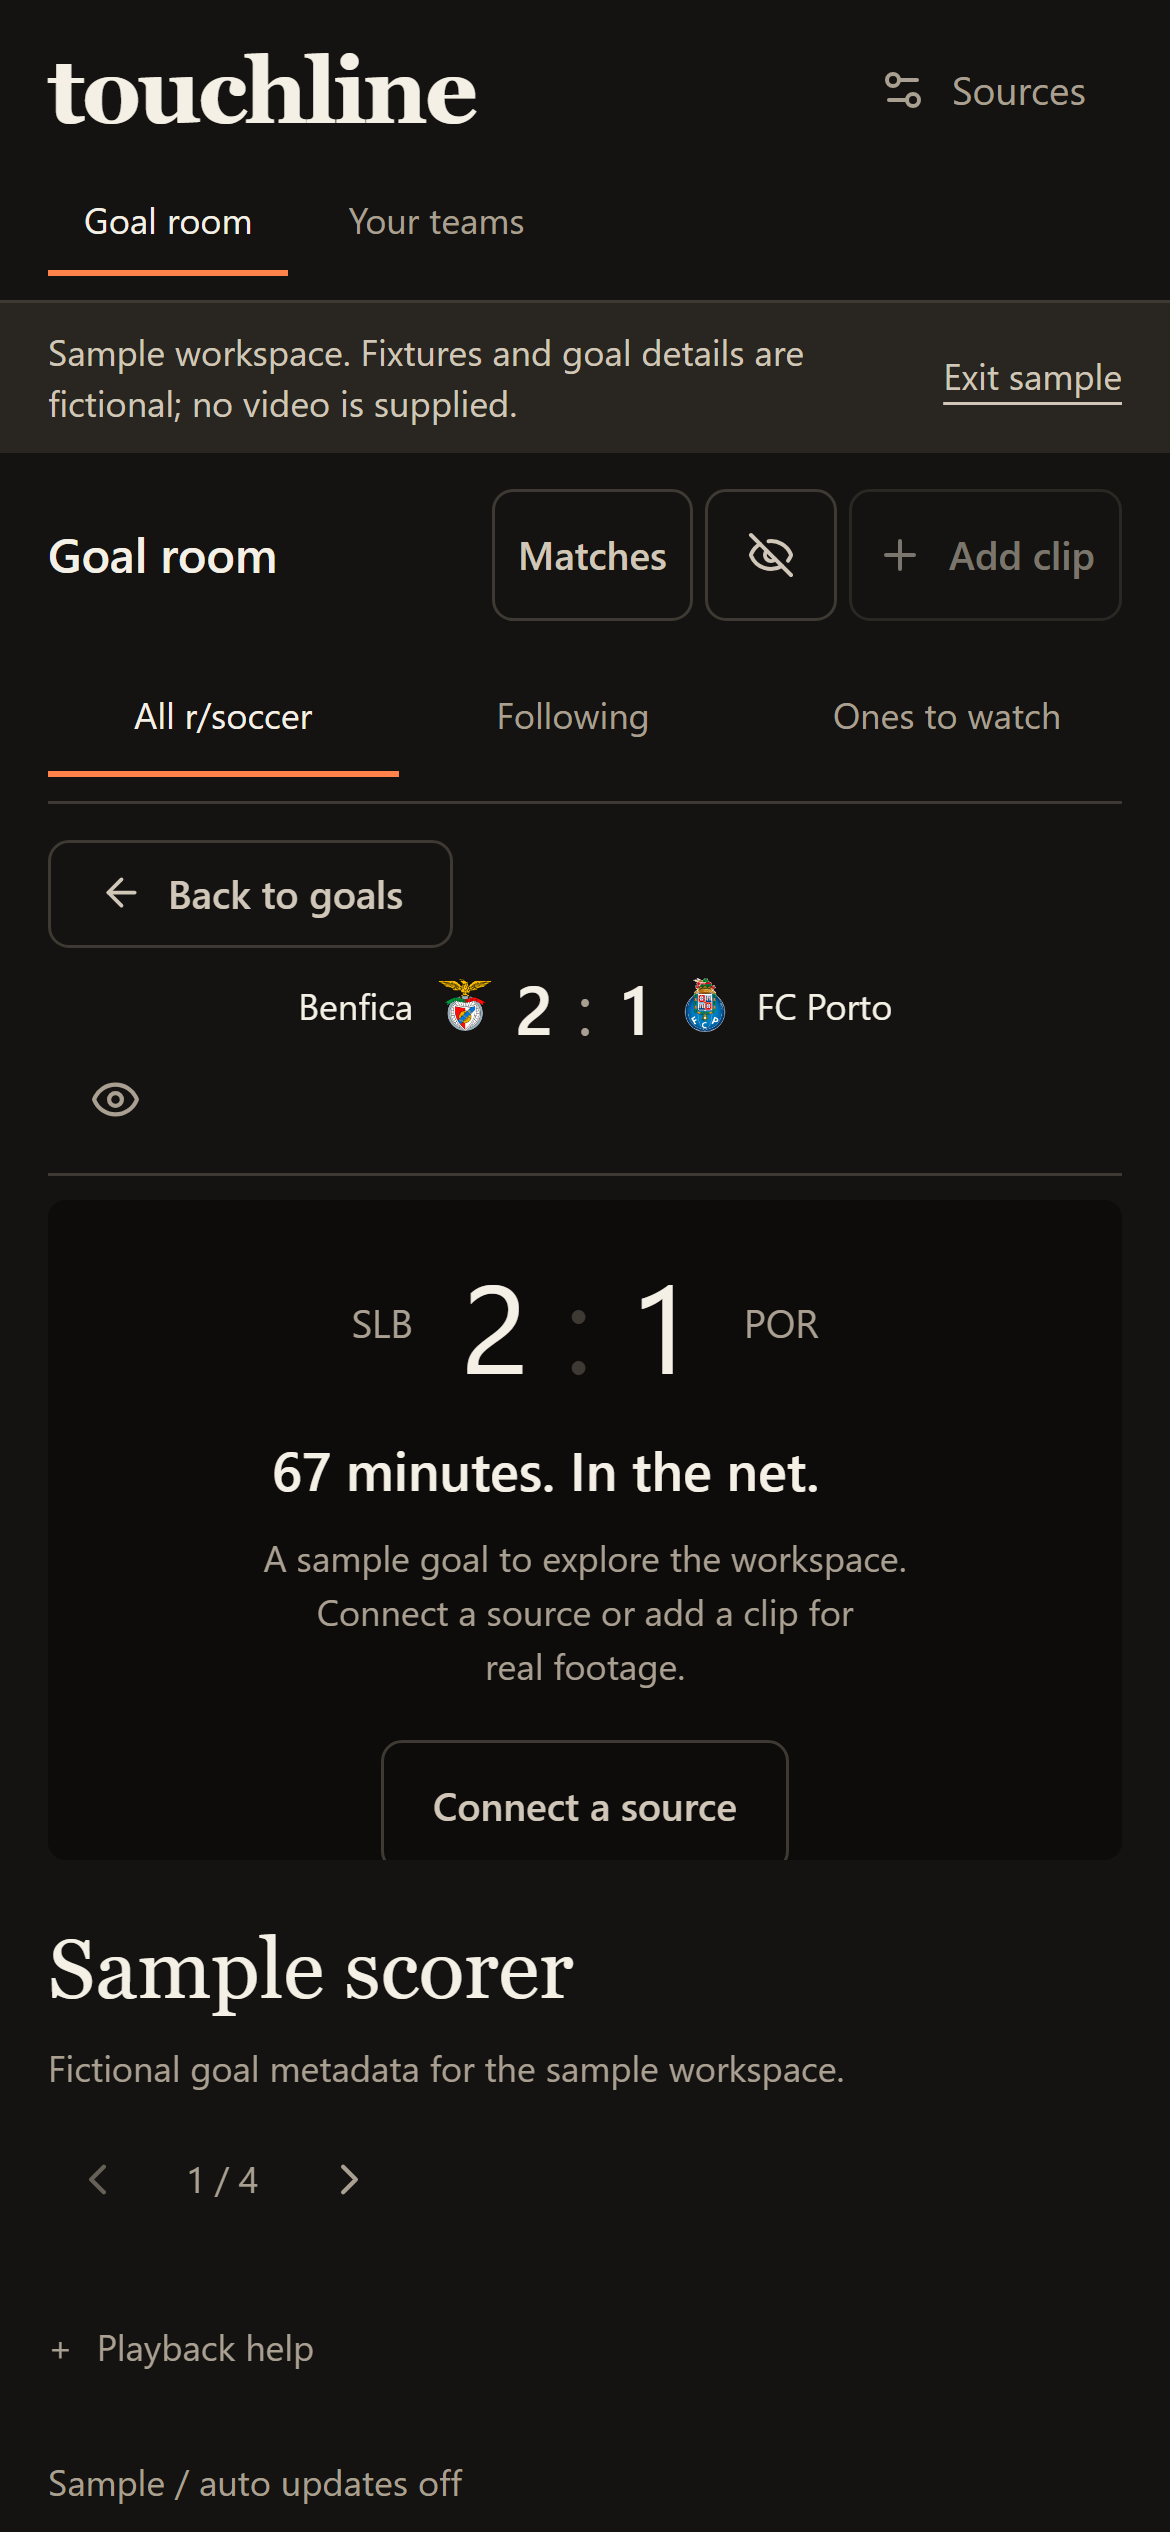
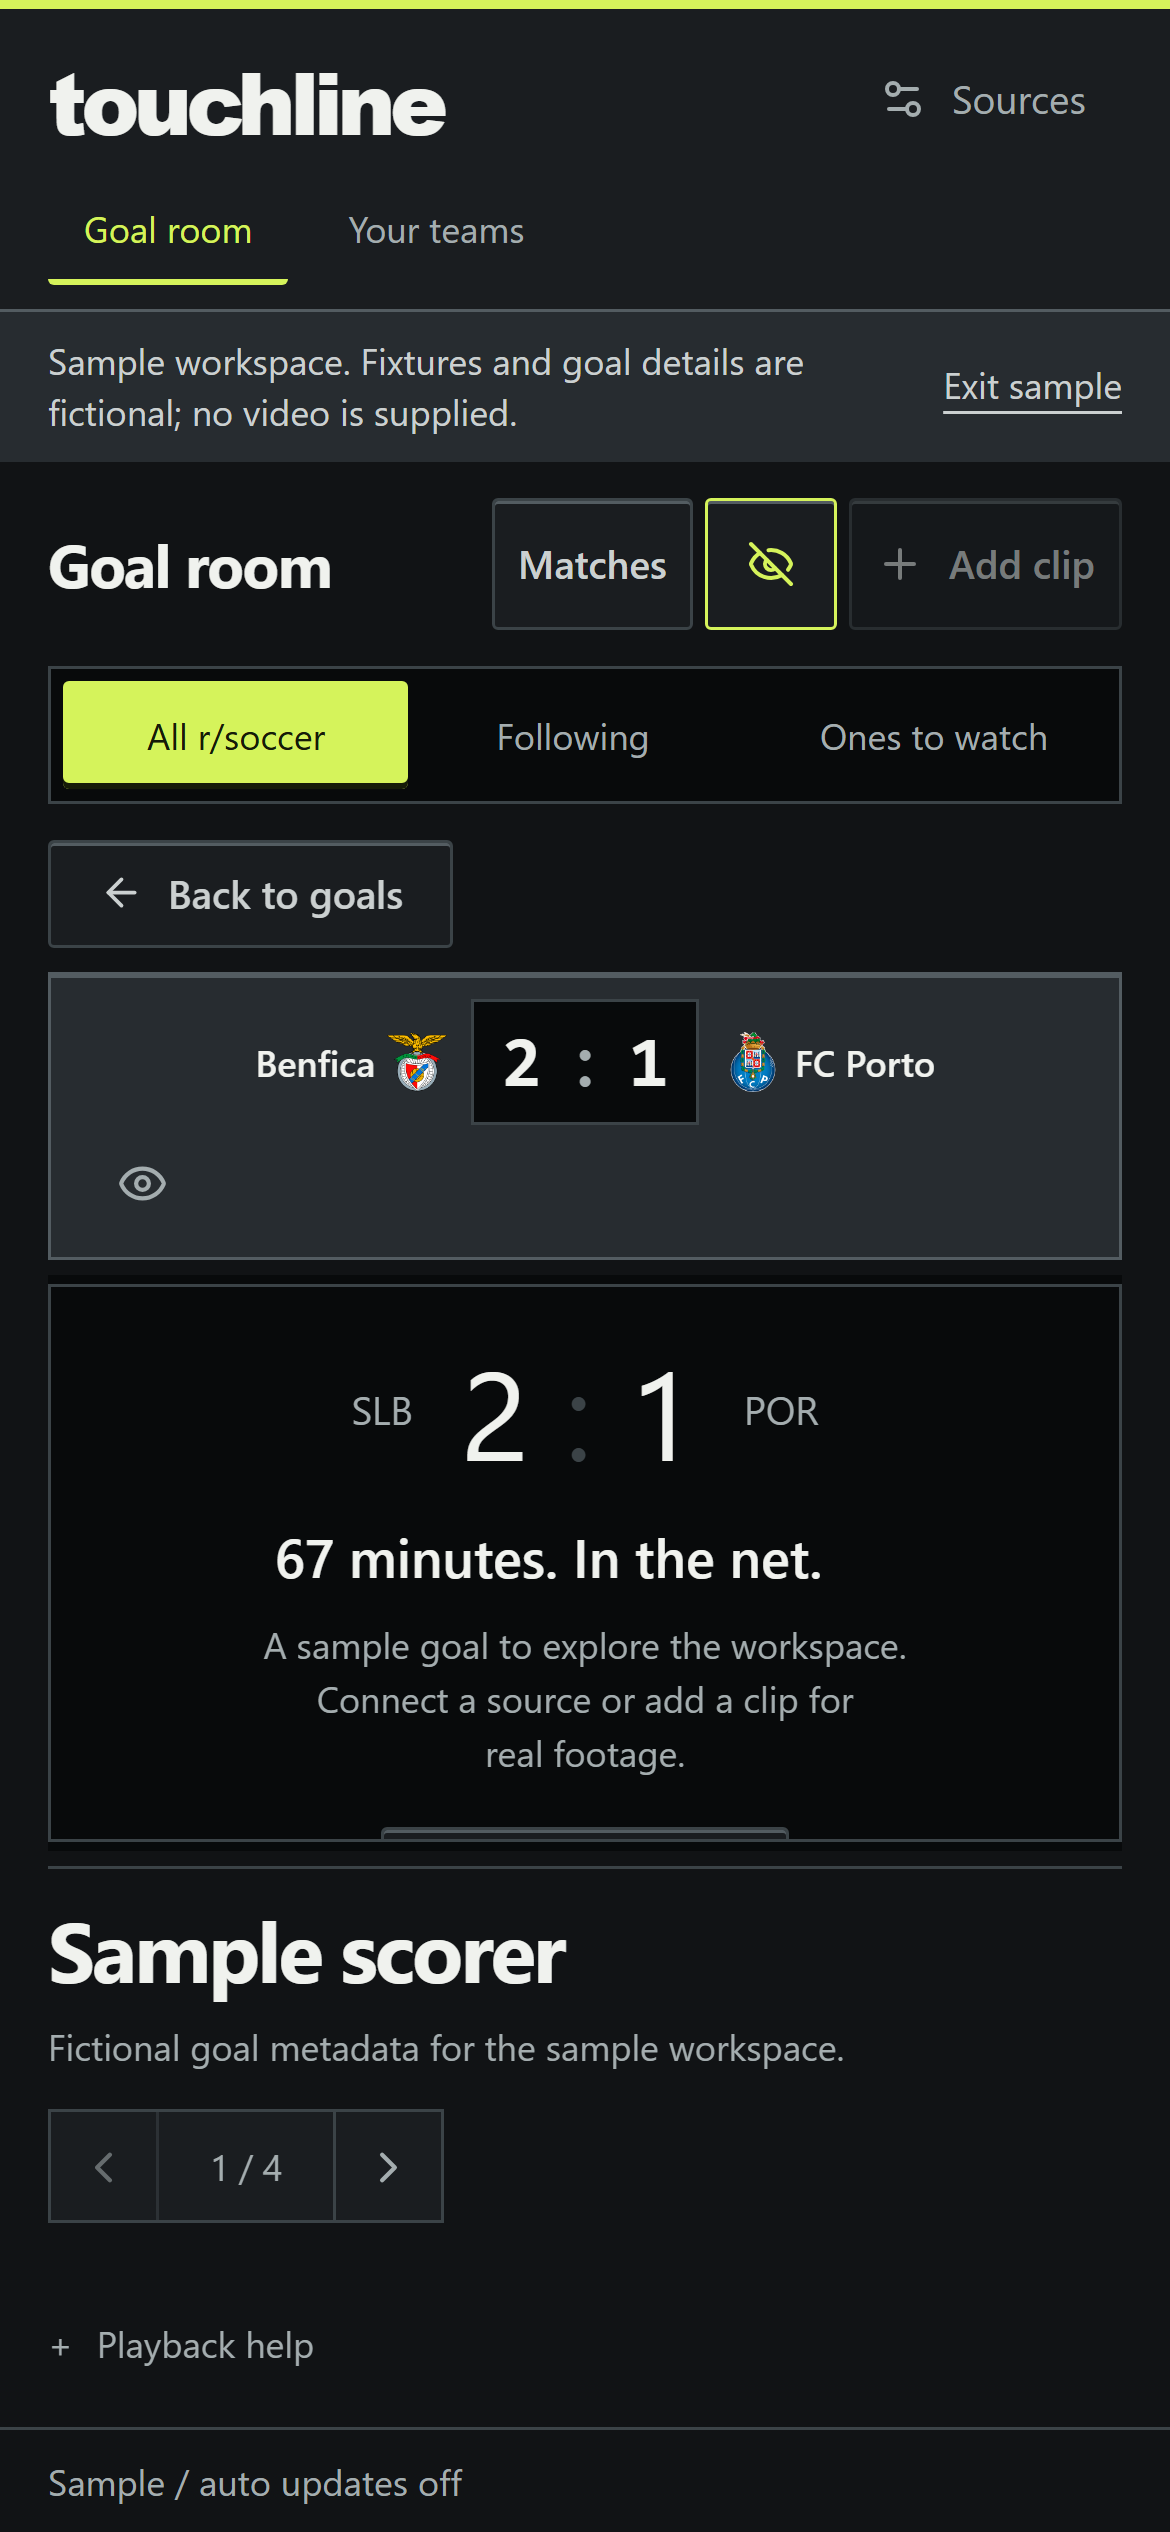
Give Touchline an industrial broadcast desk identity

diff --git a/web/src/style.css b/web/src/style.css
@@ -1,4 +1,4 @@
-/* Hallmark v2.0.0 · theme: brand (kiln ember retained) · genre: atmospheric · shape: app screen · scope: app · redesign: full · signature: named-team goal queue beside uninterrupted video and matches. */
+/* Hallmark v2.0.0 · theme: custom (graphite broadcast desk) · genre: atmospheric · shape: app screen · scope: app · redesign: full · signature: machined score strip, lime selection key and uninterrupted goal footage. */
 /* Hallmark · pre-emit critique: P4 H4 E4 S4 R5 V3 · weakest: V, existing shell retained; removed duplicated Sources chrome and lifted playback help off the footage. Finish review: in-thread, fix, 3 findings resolved (duplicate chrome, video overlays, scroll footer). */
 /* Hallmark · waive 39b · Goal rows exceed 52px · Each selectable goal contains minute, score, scorer and watch state; the entire row is a touch target rather than a toolbar button. */
 /* Hallmark · dismissed 3 · The goal row side rule marks the selected clip and changes with selection, rather than decorating unrelated content. */
@@ -280,8 +280,8 @@ small {
   border-radius: var(--radius-input);
 }
 .team-filters button[aria-pressed="true"] {
-  background: var(--color-ink);
-  color: var(--color-paper);
+  background: var(--color-clear);
+  color: var(--color-accent);
 }
 .team-filters .add-team {
   padding: var(--space-xs) var(--space-sm);
@@ -2111,6 +2111,269 @@ summary:focus-visible {
   }
   .scoreboard-result {
     font-size: 23px;
+  }
+  .clip-details h2 {
+    font-size: 28px;
+  }
+}
+
+/* Graphite desk: recessed media, raised controls, one phosphor selection key. */
+.topbar {
+  background: var(--color-paper-2);
+  border-top: 3px solid var(--color-accent);
+  border-bottom-color: var(--color-surface-edge);
+}
+.topbar .brand {
+  font: 900 30px/1 var(--font-display);
+  letter-spacing: -1.8px;
+}
+.topbar nav button {
+  border-radius: 0;
+}
+.topbar nav button[aria-current="page"] {
+  color: var(--color-accent);
+}
+.main {
+  gap: var(--space-sm);
+}
+.workspace-heading h1 {
+  font-size: 20px;
+  font-weight: 650;
+  letter-spacing: -0.5px;
+}
+.quiet,
+.primary,
+.icon-button,
+.source-status,
+.topbar nav button,
+.today-control,
+.team-filters button,
+.team-filters .add-team {
+  border-radius: 2px;
+}
+.quiet {
+  background: var(--color-paper-2);
+  border-color: var(--color-rule);
+  box-shadow: inset 0 1px 0 var(--color-surface-edge);
+}
+.quiet:hover {
+  border-color: var(--color-muted);
+  background: var(--color-paper-3);
+}
+.quiet[aria-pressed="true"] {
+  color: var(--color-accent);
+  border-color: var(--color-accent);
+}
+.primary {
+  background: var(--color-accent);
+  color: var(--color-accent-ink);
+  border: 1px solid var(--color-accent);
+  font-weight: 650;
+}
+.primary:hover {
+  background: var(--color-focus);
+  color: var(--color-accent-ink);
+}
+.workspace-toolbar {
+  border-bottom: 0;
+  padding-bottom: 0;
+}
+.feed-tabs {
+  gap: 1px;
+  padding: var(--space-2xs);
+  border: 1px solid var(--color-rule);
+  background: var(--color-inset);
+}
+.feed-tabs > button {
+  border: 0;
+  min-height: 36px;
+}
+.feed-tabs > button[aria-pressed="true"] {
+  background: var(--color-accent);
+  color: var(--color-accent-ink);
+  box-shadow: inset 0 -2px 0 var(--color-accent-ink);
+}
+.club-filters {
+  padding-left: var(--space-xs);
+}
+.goal-workspace {
+  gap: var(--space-md);
+}
+.goal-queue,
+.match-rail {
+  border: 1px solid var(--color-rule);
+  background: var(--color-paper-2);
+  border-radius: 2px;
+}
+.section-bar {
+  background: var(--color-paper-3);
+  color: var(--color-ink);
+  border-bottom-color: var(--color-surface-edge);
+}
+.goal-queue .section-bar {
+  padding-left: var(--space-sm);
+}
+.section-bar h2 {
+  font-weight: 650;
+}
+.section-bar h2 > span {
+  font-variant-numeric: tabular-nums;
+}
+.goal-search {
+  margin: var(--space-xs);
+}
+.goal-search input {
+  background: var(--color-inset);
+  box-shadow: inset 0 1px 2px var(--color-inset);
+  border-color: var(--color-rule);
+}
+.goal-row {
+  padding: var(--space-sm) var(--space-xs);
+  gap: var(--space-xs);
+}
+.goal-row.selected {
+  background: var(--color-paper-3);
+}
+.goal-minute {
+  font: 500 18px/1.3 var(--font-mono);
+  width: 44px;
+  letter-spacing: -1px;
+}
+.goal-team {
+  color: var(--color-ink);
+}
+.goal-copy strong {
+  color: var(--color-ink-2);
+}
+.queue-play {
+  width: 20px;
+}
+.goal-row.selected .queue-play {
+  background: var(--color-accent);
+  color: var(--color-accent-ink);
+  height: 24px;
+}
+.queue-footer,
+.rail-note {
+  background: var(--color-paper-2);
+  color: var(--color-muted);
+}
+.player-header {
+  min-height: 72px;
+  padding: var(--space-xs);
+  border: 1px solid var(--color-surface-edge);
+  background: var(--color-paper-3);
+  box-shadow: inset 0 1px 0 var(--color-surface-edge);
+}
+.player-header > .match-scoreboard:first-child {
+  gap: var(--space-sm);
+}
+.scoreboard-result {
+  min-width: 92px;
+  min-height: 48px;
+  justify-content: center;
+  padding: var(--space-xs);
+  background: var(--color-inset);
+  border: 1px solid var(--color-rule);
+  color: var(--color-ink);
+  font: 650 30px/1 var(--font-mono);
+}
+.scoreboard-team {
+  font-weight: 600;
+}
+.scoreboard-team .team-crest {
+  width: 26px;
+  height: 28px;
+  flex-basis: 26px;
+}
+.video-stage {
+  border: 1px solid var(--color-rule);
+  border-radius: 0;
+  box-shadow: 0 0 0 3px var(--color-inset);
+}
+.playback-tools {
+  background: var(--color-paper-2);
+}
+.clip-details {
+  padding-top: var(--space-sm);
+  border-top: 1px solid var(--color-rule);
+}
+.clip-details h2 {
+  font: 750 clamp(24px, 2.3vw, 36px)/1.06 var(--font-body);
+  letter-spacing: -1px;
+}
+.clip-navigation {
+  gap: 0;
+  border: 1px solid var(--color-rule);
+  background: var(--color-paper-2);
+}
+.clip-navigation > span {
+  min-width: 58px;
+  padding-inline: var(--space-xs);
+  font-variant-numeric: tabular-nums;
+}
+.clip-navigation .icon-button {
+  min-width: 36px;
+  min-height: 36px;
+  border-radius: 0;
+}
+.clip-navigation .icon-button:first-child {
+  border-right: 1px solid var(--color-rule);
+}
+.clip-navigation .icon-button:last-child {
+  border-left: 1px solid var(--color-rule);
+}
+.match-rail .section-bar {
+  background: var(--color-paper-3);
+  color: var(--color-ink);
+}
+.match-group-heading {
+  background: var(--color-paper);
+}
+.fixture {
+  background: var(--color-paper-2);
+}
+.fixture.selected {
+  box-shadow: inset 3px 0 0 var(--color-accent);
+}
+.app-footer {
+  border-top: 1px solid var(--color-rule);
+  padding-top: var(--space-xs);
+}
+.team-row,
+.source-row {
+  border-radius: 0;
+}
+@media (max-width: 760px) {
+  .topbar .brand {
+    font-size: 29px;
+  }
+  .feed-tabs {
+    width: 100%;
+  }
+  .feed-tabs > button {
+    min-height: 36px;
+    padding-inline: var(--space-2xs);
+  }
+  .player-header {
+    min-height: 64px;
+    padding: var(--space-xs);
+  }
+  .scoreboard-result {
+    min-width: 76px;
+    min-height: 40px;
+    font-size: 24px;
+  }
+  .player-header > .match-scoreboard:first-child {
+    gap: var(--space-xs);
+  }
+  .player-header .scoreboard-team .team-crest {
+    width: 20px;
+    height: 24px;
+    flex-basis: 20px;
+  }
+  .scoreboard-team {
+    gap: var(--space-2xs);
   }
   .clip-details h2 {
     font-size: 28px;

diff --git a/web/src/tokens.css b/web/src/tokens.css
@@ -1,20 +1,22 @@
 :root {
   color-scheme: dark;
-  --color-paper: #141311;
-  --color-paper-2: #1d1b18;
-  --color-paper-3: #292621;
-  --color-stage: #0d0c0b;
-  --color-ink: #f5f0e6;
-  --color-ink-2: #d0c7b9;
-  --color-muted: #aaa092;
-  --color-rule: #3e3932;
-  --color-accent: #ff824b;
-  --color-accent-ink: #21150d;
-  --color-focus: #ffb88f;
-  --color-error: #ffd1bd;
+  --color-paper: #111315;
+  --color-paper-2: #1a1d20;
+  --color-paper-3: #272c30;
+  --color-stage: #080a0b;
+  --color-ink: #f0f2ee;
+  --color-ink-2: #cbd0d0;
+  --color-muted: #a4adaf;
+  --color-rule: #3b4347;
+  --color-accent: #d5f35b;
+  --color-accent-ink: #151b08;
+  --color-focus: #e1ff80;
+  --color-error: #ffbca9;
   --color-clear: transparent;
+  --color-surface-edge: #535c61;
+  --color-inset: #080a0b;
   --font-body: "Segoe UI", Arial, sans-serif;
-  --font-display: Georgia, "Times New Roman", serif;
+  --font-display: "Arial Black", "Segoe UI", Arial, sans-serif;
   --font-mono: Consolas, ui-monospace, monospace;
   --text-xs: 12px;
   --text-sm: 13px;
@@ -22,8 +24,8 @@
   --text-lg: 18px;
   --text-title: 23px;
   --text-heading: 24px;
-  --radius: 12px;
-  --radius-input: 7px;
+  --radius: 2px;
+  --radius-input: 2px;
   --dur-micro: 120ms;
   --container: 1664px;
   --gutter: 24px;
@@ -36,7 +38,7 @@
   --space-xl: 40px;
   --space-2xl: 64px;
   --space-3xl: 96px;
-  --color-scrim: oklch(12% 0.012 40 / 0.65);
+  --color-scrim: oklch(12% 0.008 230 / 0.75);
   --ease-out: cubic-bezier(0.16, 1, 0.3, 1);
   --dur-short: 220ms;
   --z-modal: 400;
